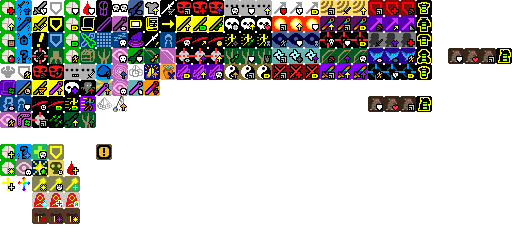
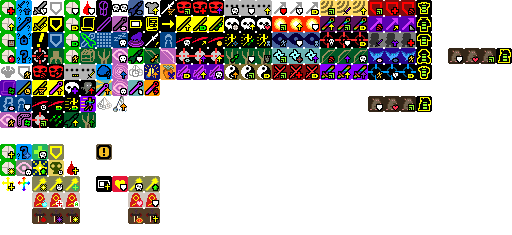
强化天赋贴图实装 天赋强化书小改动

Changed region(s): [[0.1875, 0.7447, 0.3125, 0.9532]]

diff --git a/core/src/main/java/com/shatteredpixel/shatteredpixeldungeon/windows/WndImpTalent.java b/core/src/main/java/com/shatteredpixel/shatteredpixeldungeon/windows/WndImpTalent.java
@@ -1,0 +1,105 @@
+package com.shatteredpixel.shatteredpixeldungeon.windows;
+
+import static com.shatteredpixel.shatteredpixeldungeon.actors.buffs.Buff.detach;
+
+import com.shatteredpixel.shatteredpixeldungeon.Assets;
+import com.shatteredpixel.shatteredpixeldungeon.Dungeon;
+import com.shatteredpixel.shatteredpixeldungeon.actors.Actor;
+import com.shatteredpixel.shatteredpixeldungeon.actors.buffs.Buff;
+import com.shatteredpixel.shatteredpixeldungeon.actors.hero.Hero;
+import com.shatteredpixel.shatteredpixeldungeon.actors.hero.HeroSubClass;
+import com.shatteredpixel.shatteredpixeldungeon.actors.hero.Talent;
+import com.shatteredpixel.shatteredpixeldungeon.custom.testmode.generator.TestTalentOFTerminalBook;
+import com.shatteredpixel.shatteredpixeldungeon.effects.Speck;
+import com.shatteredpixel.shatteredpixeldungeon.items.TengusMask;
+import com.shatteredpixel.shatteredpixeldungeon.items.quest.DwarfToken;
+import com.shatteredpixel.shatteredpixeldungeon.messages.Messages;
+import com.shatteredpixel.shatteredpixeldungeon.scenes.GameScene;
+import com.shatteredpixel.shatteredpixeldungeon.scenes.PixelScene;
+import com.shatteredpixel.shatteredpixeldungeon.sprites.ItemSprite;
+import com.shatteredpixel.shatteredpixeldungeon.ui.HeroIcon;
+import com.shatteredpixel.shatteredpixeldungeon.ui.IconButton;
+import com.shatteredpixel.shatteredpixeldungeon.ui.Icons;
+import com.shatteredpixel.shatteredpixeldungeon.ui.RedButton;
+import com.shatteredpixel.shatteredpixeldungeon.ui.RenderedTextBlock;
+import com.shatteredpixel.shatteredpixeldungeon.ui.Window;
+import com.shatteredpixel.shatteredpixeldungeon.utils.GLog;
+import com.watabou.noosa.audio.Sample;
+import com.watabou.noosa.particles.Emitter;
+
+public class WndImpTalent extends Window {
+
+    private static final int WIDTH		= 130;
+    private static final float GAP		= 2;
+
+    public WndImpTalent(final TestTalentOFTerminalBook tome ) {
+
+        super();
+
+        IconTitle titlebar = new IconTitle();
+        titlebar.icon( new ItemSprite( tome.image(), null ) );
+        titlebar.label( tome.name() );
+        titlebar.setRect( 0, 0, WIDTH, 0 );
+        add( titlebar );
+
+        RenderedTextBlock message = PixelScene.renderTextBlock( 6 );
+        message.text( Messages.get(this, "message"), WIDTH );
+        message.setPos( titlebar.left(), titlebar.bottom() + GAP );
+        add( message );
+
+        float pos = message.bottom() + 3*GAP;
+        TestTalentOFTerminalBook tokens = Dungeon.hero.belongings.getItem( TestTalentOFTerminalBook.class );
+        RedButton btnCls = new RedButton( Dungeon.hero.subClass.shortDesc(), 6 ) {
+            @Override
+            protected void onClick() {
+                Hero hero = Dungeon.hero;
+                hero.powerOfImp = true;
+                Buff.affect(hero, WndImp.powerGainTracker.class);
+                hero.spend(Actor.TICK);
+                hero.busy();
+                Talent.initT4Talents(hero);
+
+                hero.sprite.operate(hero.pos);
+                Sample.INSTANCE.playDelayed(Assets.Sounds.LEVELUP, 0.3f, 0.7f, 1.2f);
+                Sample.INSTANCE.playDelayed(Assets.Sounds.LEVELUP, 0.6f, 0.7f, 1.2f);
+
+                Emitter e = hero.sprite.centerEmitter();
+                e.pos(e.x - 2, e.y - 6, 4, 4);
+                e.start(Speck.factory(Speck.MASK), 0.05f, 20);
+                GLog.p(Messages.get(TestTalentOFTerminalBook.class,"power_mode_on",hero.name()));
+                hero.sprite.operate( hero.pos );
+                tokens.detach( hero.belongings.backpack );
+                WndImpTalent.this.hide();
+            }
+        };
+
+        btnCls.leftJustify = true;
+        btnCls.multiline = true;
+        btnCls.setSize(WIDTH-20, btnCls.reqHeight()+2);
+        btnCls.setRect( 0, pos, WIDTH-20, btnCls.reqHeight()+2);
+        add( btnCls );
+
+        IconButton clsInfo = new IconButton(Icons.get(Icons.INFO)){
+            @Override
+            protected void onClick() {
+                GameScene.show(new WndInfoImpSuperTalent(Dungeon.hero.heroClass,Dungeon.hero.subClass));
+            }
+        };
+        clsInfo.setRect(WIDTH-20, btnCls.top() + (btnCls.height()-20)/2, 20, 20);
+        add(clsInfo);
+
+        pos = btnCls.bottom() + GAP;
+
+        RedButton btnCancel = new RedButton( Messages.get(this, "cancel") ) {
+            @Override
+            protected void onClick() {
+                hide();
+            }
+        };
+        btnCancel.setRect( 0, pos, WIDTH, 18 );
+        add( btnCancel );
+
+        resize( WIDTH, (int)btnCancel.bottom() );
+    }
+}
+

diff --git a/core/src/main/java/com/shatteredpixel/shatteredpixeldungeon/custom/testmode/generator/TestTalentOFTerminalBook.java b/core/src/main/java/com/shatteredpixel/shatteredpixeldungeon/custom/testmode/generator/TestTalentOFTerminalBook.java
@@ -3,18 +3,26 @@ package com.shatteredpixel.shatteredpixeldungeon.custom.testmode.generator;
 import static com.shatteredpixel.shatteredpixeldungeon.actors.hero.HeroSubClass.NONE;
 
 import com.shatteredpixel.shatteredpixeldungeon.Assets;
+import com.shatteredpixel.shatteredpixeldungeon.Dungeon;
 import com.shatteredpixel.shatteredpixeldungeon.actors.Actor;
 import com.shatteredpixel.shatteredpixeldungeon.actors.buffs.Buff;
 import com.shatteredpixel.shatteredpixeldungeon.actors.hero.Hero;
 import com.shatteredpixel.shatteredpixeldungeon.actors.hero.Talent;
+import com.shatteredpixel.shatteredpixeldungeon.actors.mobs.npcs.Imp;
 import com.shatteredpixel.shatteredpixeldungeon.custom.testmode.TestItem;
 import com.shatteredpixel.shatteredpixeldungeon.effects.Speck;
+import com.shatteredpixel.shatteredpixeldungeon.items.quest.DwarfToken;
 import com.shatteredpixel.shatteredpixeldungeon.messages.Messages;
+import com.shatteredpixel.shatteredpixeldungeon.scenes.GameScene;
 import com.shatteredpixel.shatteredpixeldungeon.sprites.ItemSpriteSheet;
 import com.shatteredpixel.shatteredpixeldungeon.utils.GLog;
 import com.shatteredpixel.shatteredpixeldungeon.windows.WndImp;
+import com.shatteredpixel.shatteredpixeldungeon.windows.WndImpTalent;
+import com.shatteredpixel.shatteredpixeldungeon.windows.WndInfoSubclass;
+import com.watabou.noosa.Game;
 import com.watabou.noosa.audio.Sample;
 import com.watabou.noosa.particles.Emitter;
+import com.watabou.utils.Callback;
 
 import java.util.ArrayList;
 
@@ -39,22 +47,12 @@ public class TestTalentOFTerminalBook extends TestItem {
         super.execute(hero, action);
         if (action.equals( AC_READ )) {
             if (!hero.powerOfImp & hero.subClass != NONE ) {
-                hero.powerOfImp = true;
-                Buff.affect(hero, WndImp.powerGainTracker.class);
-                hero.spend(Actor.TICK);
-                hero.busy();
-                Talent.initT4Talents(hero);
-
-                hero.sprite.operate(hero.pos);
-                Sample.INSTANCE.playDelayed(Assets.Sounds.LEVELUP, 0.3f, 0.7f, 1.2f);
-                Sample.INSTANCE.playDelayed(Assets.Sounds.LEVELUP, 0.6f, 0.7f, 1.2f);
-
-                Emitter e = hero.sprite.centerEmitter();
-                e.pos(e.x - 2, e.y - 6, 4, 4);
-                e.start(Speck.factory(Speck.MASK), 0.05f, 20);
-                GLog.p(Messages.get(this,"power_mode_on",hero.name()));
-                hero.sprite.operate( hero.pos );
-                detach( hero.belongings.backpack );
+                Game.runOnRenderThread(new Callback() {
+                    @Override
+                    public void call() {
+                        Game.scene().addToFront(new WndImpTalent(TestTalentOFTerminalBook.this));
+                    }
+                });
             } else {
                 GLog.w(Messages.get(this,"power_mode_bad"));
             }

diff --git a/core/src/main/java/com/shatteredpixel/shatteredpixeldungeon/actors/hero/Talent.java b/core/src/main/java/com/shatteredpixel/shatteredpixeldungeon/actors/hero/Talent.java
@@ -220,20 +220,20 @@ public enum Talent {
 
 	// T4 rector universal
 	// T4 牧师通用(星界沟通，生命坚壁)
-	SUPERSTITION(421,4),VITAE_BOOST(422,4),
+	SUPERSTITION(358,4),VITAE_BOOST(359,4),
 
 	// T4 战斗牧师(战斗兴奋,神赐之礼)
 	// T4 BATTLE RECTOR
-	ADRENAL_COMBAT(423,4),GIFT(424,4),
+	ADRENAL_COMBAT(360,4),GIFT(361,4),
 
 
 	// T4 红衣主教(圣化转变,圣光障壁)
 	// T4 Cardinal
-	SOUL_POSSESSION(425,4),BLOODY_VITAE(426,4),
+	SOUL_POSSESSION(392,4),BLOODY_VITAE(393,4),
 
 	// T4 执行者(无情扫除,信仰收割)
 	// T4 DEAD DIFE
-	PRESS_ON(427,4),BRIEF_HARVEST(428,4),
+	PRESS_ON(390,4),BRIEF_HARVEST(391,4),
 
 	ERROR(294,4);
 
@@ -1140,7 +1140,7 @@ public enum Talent {
 				Collections.addAll(tierTalents, BRISK_PACE,PHASE_FILLING);
 				break;
 			case RECTOR:
-				Collections.addAll(tierTalents,SUPERSTITION,VITAE_BOOST,ERROR);
+				Collections.addAll(tierTalents,SUPERSTITION,VITAE_BOOST);
 				break;
 		}
 		//tier 4
@@ -1182,6 +1182,10 @@ public enum Talent {
 
 			case BATTLEPREIST:
 				Collections.addAll(tierTalents,ADRENAL_COMBAT,GIFT);
+				break;
+
+			case DEAD_KNIGHT:
+				Collections.addAll(tierTalents,ERROR);
 				break;
 		}
 		for (Talent talent : tierTalents){

diff --git a/core/src/main/java/com/shatteredpixel/shatteredpixeldungeon/actors/mobs/DwarfKing.java b/core/src/main/java/com/shatteredpixel/shatteredpixeldungeon/actors/mobs/DwarfKing.java
@@ -34,7 +34,9 @@ import com.shatteredpixel.shatteredpixeldungeon.actors.buffs.Buff;
 import com.shatteredpixel.shatteredpixeldungeon.actors.buffs.Doom;
 import com.shatteredpixel.shatteredpixeldungeon.actors.buffs.LifeLink;
 import com.shatteredpixel.shatteredpixeldungeon.actors.buffs.LockedFloor;
+import com.shatteredpixel.shatteredpixeldungeon.actors.hero.HeroClass;
 import com.shatteredpixel.shatteredpixeldungeon.actors.mobs.npcs.Sheep;
+import com.shatteredpixel.shatteredpixeldungeon.custom.testmode.generator.TestTalentOFTerminalBook;
 import com.shatteredpixel.shatteredpixeldungeon.effects.Beam;
 import com.shatteredpixel.shatteredpixeldungeon.effects.CellEmitter;
 import com.shatteredpixel.shatteredpixeldungeon.effects.Pushing;
@@ -554,9 +556,17 @@ public class DwarfKing extends Mob {
 		}
 
 		if (Dungeon.level.solid[pos]){
-			Dungeon.level.drop(new KingsCrown(), pos + Dungeon.level.width()).sprite.drop(pos);
+			if(Dungeon.hero.heroClass == HeroClass.RECTOR){
+				Dungeon.level.drop(new TestTalentOFTerminalBook(), pos + Dungeon.level.width()).sprite.drop(pos);
+			} else {
+				Dungeon.level.drop(new KingsCrown(), pos + Dungeon.level.width()).sprite.drop(pos);
+			}
 		} else {
-			Dungeon.level.drop(new KingsCrown(), pos).sprite.drop();
+			if(Dungeon.hero.heroClass == HeroClass.RECTOR){
+				Dungeon.level.drop(new TestTalentOFTerminalBook(), pos).sprite.drop();
+			} else {
+				Dungeon.level.drop(new KingsCrown(), pos).sprite.drop();
+			}
 		}
 
 		Badges.validateBossSlain();

diff --git a/core/src/main/java/com/shatteredpixel/shatteredpixeldungeon/actors/hero/HeroClass.java b/core/src/main/java/com/shatteredpixel/shatteredpixeldungeon/actors/hero/HeroClass.java
@@ -30,6 +30,10 @@ import com.shatteredpixel.shatteredpixeldungeon.SPDSettings;
 import com.shatteredpixel.shatteredpixeldungeon.actors.buffs.Buff;
 import com.shatteredpixel.shatteredpixeldungeon.actors.buffs.rector.Belief;
 import com.shatteredpixel.shatteredpixeldungeon.actors.hero.abilities.ArmorAbility;
+import com.shatteredpixel.shatteredpixeldungeon.actors.hero.abilities.Ratmogrify;
+import com.shatteredpixel.shatteredpixeldungeon.actors.hero.abilities.duelist.Challenge;
+import com.shatteredpixel.shatteredpixeldungeon.actors.hero.abilities.duelist.ElementalStrike;
+import com.shatteredpixel.shatteredpixeldungeon.actors.hero.abilities.duelist.Feint;
 import com.shatteredpixel.shatteredpixeldungeon.actors.hero.abilities.huntress.NaturesPower;
 import com.shatteredpixel.shatteredpixeldungeon.actors.hero.abilities.huntress.SpectralBlades;
 import com.shatteredpixel.shatteredpixeldungeon.actors.hero.abilities.huntress.SpiritHawk;
@@ -370,7 +374,7 @@ public enum HeroClass {
 			case HUNTRESS:
 				return new ArmorAbility[]{new SpectralBlades(), new NaturesPower(), new SpiritHawk()};
 			case RECTOR:
-				return new ArmorAbility[]{};
+				return new ArmorAbility[]{new Ratmogrify()};
 		}
 	}
 

diff --git a/core/src/main/java/com/shatteredpixel/shatteredpixeldungeon/items/armor/ClassArmor.java b/core/src/main/java/com/shatteredpixel/shatteredpixeldungeon/items/armor/ClassArmor.java
@@ -98,7 +98,7 @@ abstract public class ClassArmor extends Armor {
 		ClassArmor classArmor = null;
 
 		switch (owner.heroClass) {
-			case WARRIOR:
+			case WARRIOR:case RECTOR:
 				classArmor = new WarriorArmor();
 				BrokenSeal seal = armor.checkSeal();
 				if (seal != null) {